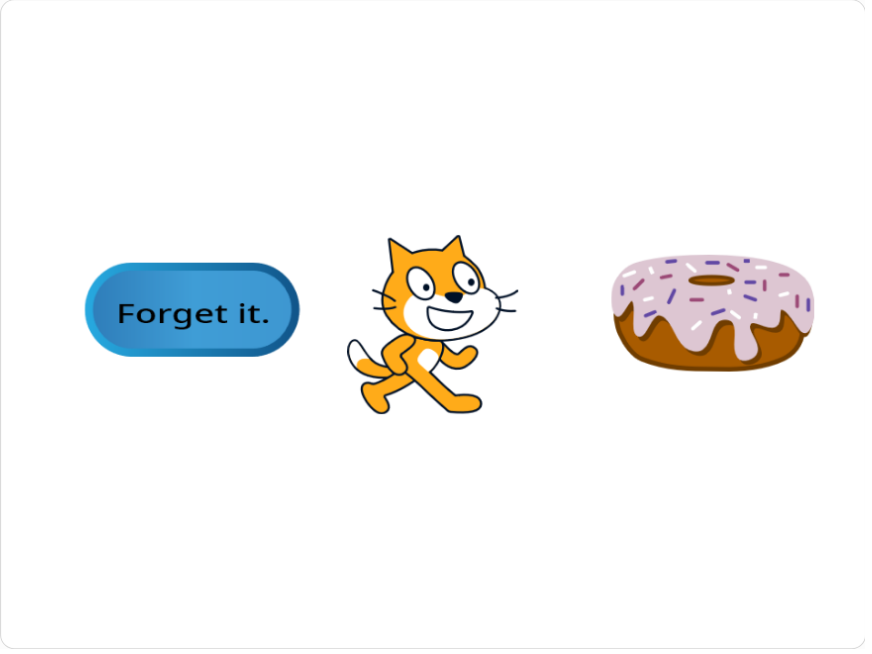
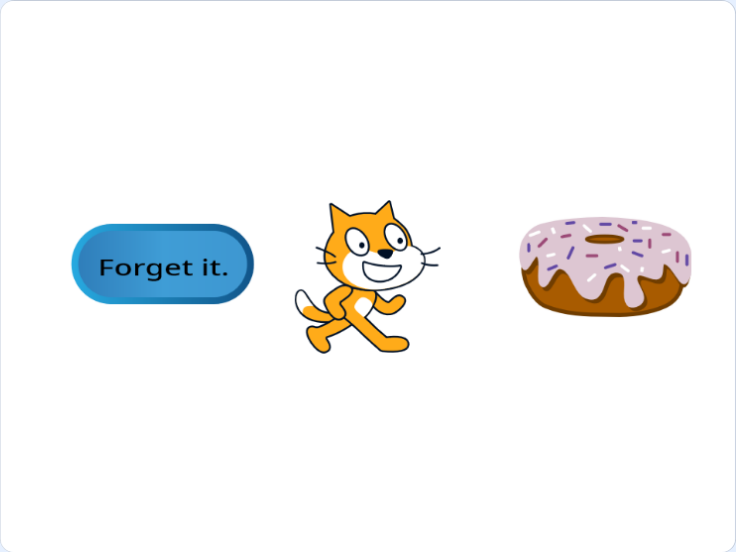
reduce image size

diff --git a/Newsletters/20210501.html b/Newsletters/20210501.html
@@ -39,7 +39,7 @@
 						<figcaption><em>Prize</em> by Sal</figcaption>
 					</figure>
 				</div>
-				<p>Click here to view the <a href="https://scratch.mit.edu/projects/520538926/">Delivery</a> project.</p>
+				<p>Click here to view the <a href="https://scratch.mit.edu/projects/520538926/">Prize</a> project.</p>
 				<h3>Things to try</h3>
 				<p><a href="https://www.microsoft.com/store/productId/9NBLGGH4XVFG">TIC-80</a> is a small virtual computer for making and sharing tiny games. If you are running on Windows, click the link to install it through the Microsoft Store.</p>
 				<h3>New code clubbers</h3>
